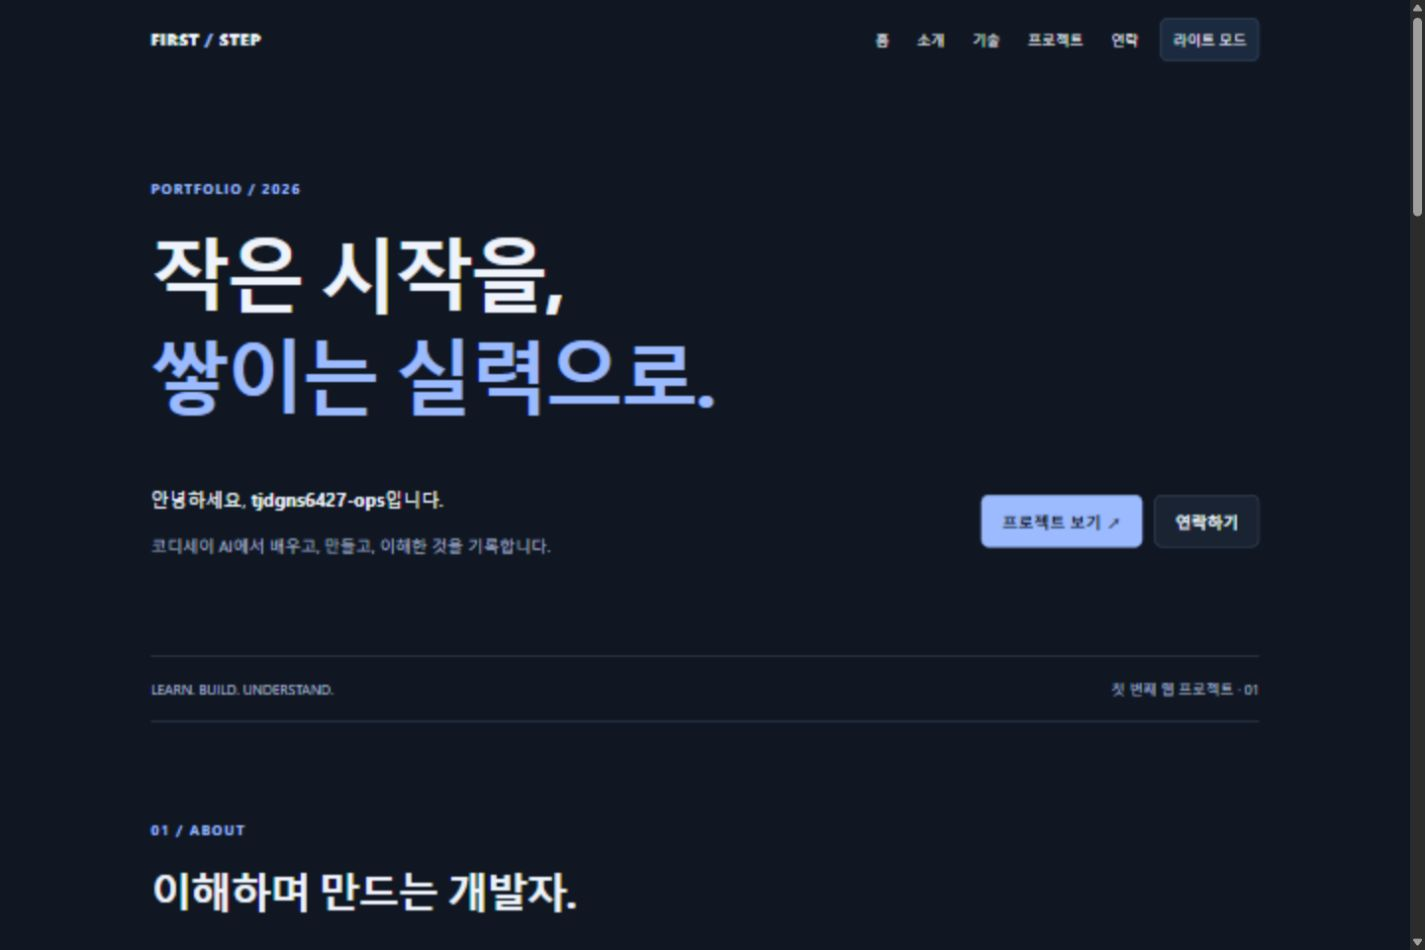
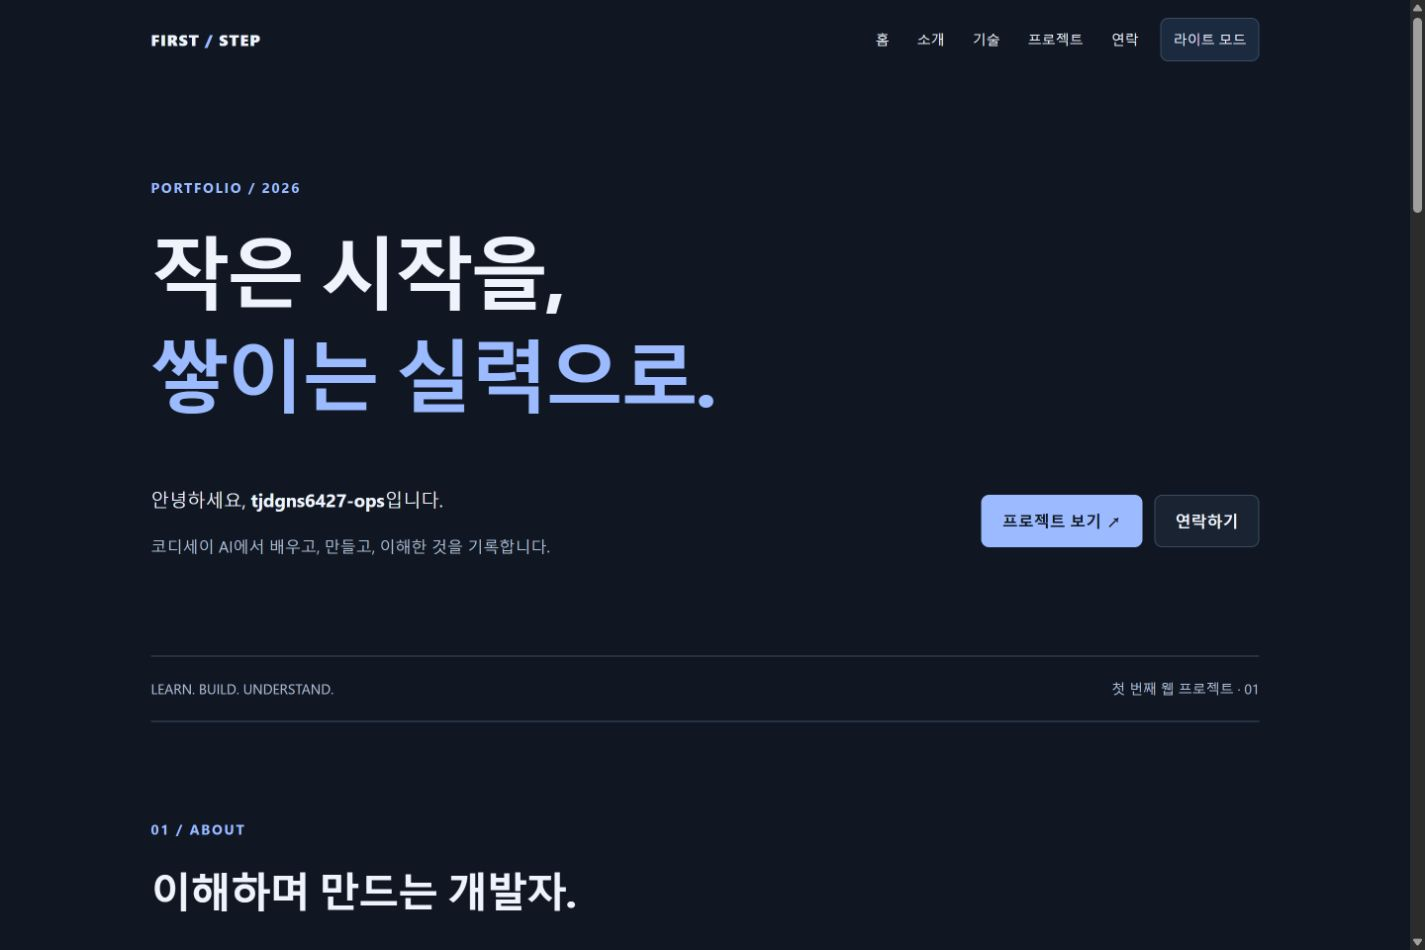
Document deployment and verify published portfolio

diff --git a/CHECKLIST.md b/CHECKLIST.md
@@ -31,9 +31,9 @@
 | 로딩 / 성공 / 오류 / 빈 목록 | renderProjects | 실제 성공 및 모의 응답 검증 |
 | 오류 재시도, 403 제한 처리 | loadProjects / retry-button | 모의 응답 검증 |
 | 3개 이상 상태 → 화면 흐름 | 테마, 메뉴, API, 폼 | 4개 구현 |
-| GitHub Pages | 새 mission-B1-1 저장소 예정 | **로그인 대기 / 미배포** |
-| README와 스크린샷 | README.md, images/*.png | 로컬 화면 저장 완료 |
-| 배포 URL에서 재검증 | 배포 후 진행 | **미완료** |
+| GitHub Pages | 새 mission-B1-1 저장소 | 배포 완료 |
+| README와 스크린샷 | README.md, images/*.png | 배포 화면 저장 완료 |
+| 배포 URL에서 재검증 | API, 테마, 폼, 메뉴, 레이아웃 | 완료 |
 
 ## 수행한 검증
 
@@ -49,14 +49,22 @@
 - 외부 문자열 `<script>` 등이 태그로 삽입되지 않고 이스케이프되는지 확인.
 - 데스크톱·모바일·다크 모드 스크린샷 저장.
 
-브라우저 확인은 Codex 내장 브라우저에서 수행했습니다. 설치된 최신 Chrome에서의 별도 확인과 배포 URL 검증은 남아 있습니다. API 실패/빈 목록 등은 서버 상황을 강제로 바꾸지 않고 모의 응답으로 검증했습니다.
+브라우저 확인은 Codex 내장 브라우저에서 수행했습니다. 설치된 최신 Chrome에서의 별도 확인은 남아 있습니다. API 실패/빈 목록 등은 서버 상황을 강제로 바꾸지 않고 모의 응답으로 검증했습니다.
+
+## 배포 후 확인
+
+- 주소: https://tjdgns6427-ops.github.io/mission-B1-1/
+- GitHub Pages의 배포 성공 및 공개 접속 확인.
+- 실제 API에서 새 저장소를 포함한 11개 프로젝트 표시.
+- 다크 모드 적용 및 새로고침 유지 확인.
+- 빈 폼 오류 3개와 정상 입력 성공 안내 확인.
+- 모바일 메뉴 열기, 프로젝트 링크 선택 후 닫기 확인.
+- 390px / 768px / 1440px에서 문서 폭이 화면 폭을 넘지 않음.
 
 ## 제출 직전 남은 일
 
-1. GitHub 로그인.
-2. 새 `mission-B1-1` 저장소 생성 및 파일 업로드.
-3. GitHub Pages 배포와 배포 주소 검증.
-4. README에 실제 저장소/배포 주소 기록.
-5. 플랫폼에 제출한 후 공개된 평가항목으로 추가 점검.
+1. 본인의 Chrome에서 배포 URL을 열어 최종 확인.
+2. 플랫폼에 저장소 URL과 배포 URL, 필요한 스크린샷 제출.
+3. 제출 후 공개된 평가항목으로 추가 점검.
 
 선택 과제(언어별 프로젝트 필터, 타이핑 효과, 실제 메일 발송, 시스템 다크 모드 자동 감지)는 구현하지 않았습니다. 필수 흐름을 먼저 이해할 수 있도록 범위를 정했습니다.

diff --git a/README.md b/README.md
@@ -5,10 +5,11 @@
 ## 현재 상태
 
 - GitHub 계정: [tjdgns6427-ops](https://github.com/tjdgns6427-ops)
-- 로컬 구현 및 주요 브라우저 동작 검증 완료
-- 배포 대상: 새 저장소 `mission-B1-1` (기존 미션 저장소와 분리)
-- **저장소 URL / GitHub Pages 배포 URL: 아직 미발급. GitHub 로그인 후 추가 예정**
-- 아래 스크린샷은 로컬 실행 화면입니다.
+- 로컬 구현 및 배포 주소에서 주요 브라우저 동작 검증 완료
+- 저장소: [mission-B1-1](https://github.com/tjdgns6427-ops/mission-B1-1)
+- 사이트: [포트폴리오 열기](https://tjdgns6427-ops.github.io/mission-B1-1/)
+- 배포 방식: `main` 브랜치의 최상위 폴더를 GitHub Pages로 게시
+- 아래 스크린샷은 GitHub Pages 배포 화면입니다.
 
 ## 실행
 
